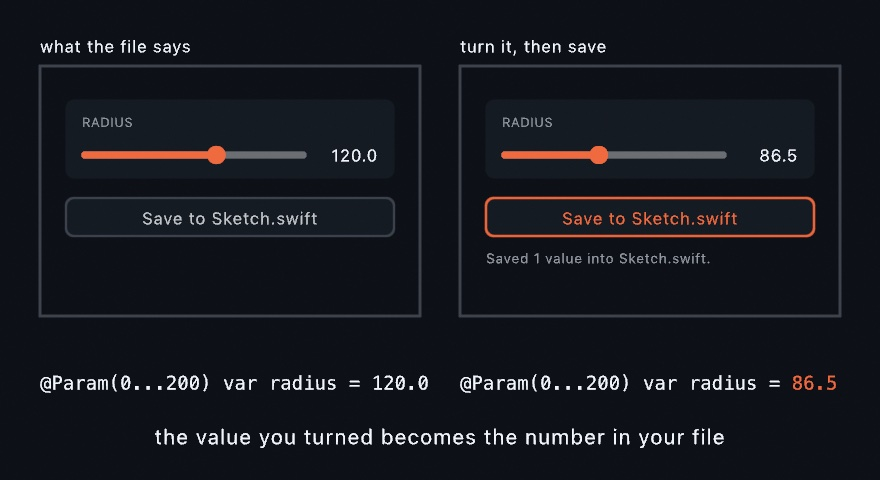
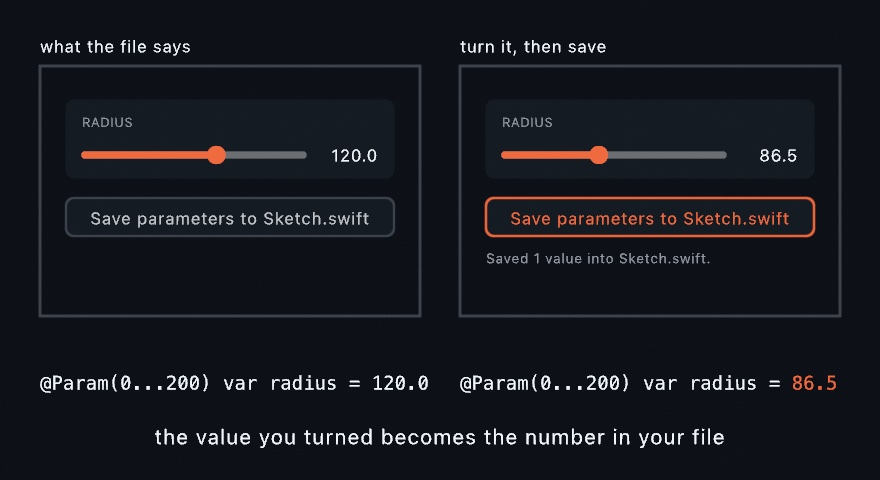
Fix what a desk session found in the live host and three examples
An evening of eyes-and-hands checks at the Mac, every example a release
build from a clean worktree at HEAD. Twenty-three items passed outright;
the rest are fixed here.

- The ramp strip: a stop dragged onto its neighbor vanished behind it and
  could not be grabbed back. It now stops one handle short.
- The save button: written values are rounded to four significant figures
  (2.403, never 2.4027931415929205), and the button is a footer at the end
  of the list, a rule at the list's inset and the system's push button
  centered under it, after a full-width accent box read too loud, plain
  text did not read as a button, and a tinted band read as one more card.
  It says "Save parameters to Sketch.swift".
- A menu row trimmed its label to "Spa…" because the popup sized itself to
  its widest option. The label lays out first and the menu shrinks between
  84 and 170 points; labels over 12 characters get a hover tooltip.
- Command-drag handles could not be reached at all: the outline was dropped
  the moment the pointer left the shape, and a corner stands outside it.
  The host keeps the outline while the pointer is within reach of the
  handles (SourcePick.keepsHover), so a corner resize works by hand.
- Haptics: the trackpad actuates only while the button is held, so every
  ridge knock asked for on a plain pointer move was planned and felt by
  nobody. The ridges example knocks under a held-button drag and hums under
[…]

Changed region(s): [[0.583, 0.4375, 0.9205, 0.4688], [0.092, 0.4375, 0.4295, 0.4688]]

diff --git a/Sources/Ollin/Live/Inspector.swift b/Sources/Ollin/Live/Inspector.swift
@@ -705,7 +705,7 @@ private struct MonitorCostRow: View {
 /// detached panel, the examples gallery) simply shows no button.
 public struct ParamSaveAction {
     /// What the button reads, naming where the values land
-    /// ("Save to Sketch.swift").
+    /// ("Save parameters to Sketch.swift").
     public let title: String
     /// Write them, and hand back the one line to show underneath (what landed,
     /// and the first knob that could not), or `nil` to say nothing. It runs on
@@ -943,38 +943,34 @@ public struct ParametersListView: View {
 
     /// The one action under the cards: put the values you turned into the
     /// sketch that declared them. What it says afterwards stays until the next
-    /// press, since a refusal names the knob it could not write.
+    /// press, since a refusal names the parameter it could not write. It is
+    /// a footer at the end of the list: a rule sets it apart from the
+    /// parameters above (it acts on all of them and is not one), the system's
+    /// own push button sits centered under it, and it scrolls with the list
+    /// rather than pinning, so a sketch with one parameter does not pay for
+    /// it. A full-width accent box read louder than the rows it serves, plain
+    /// text did not read as a button at all, and a tinted band behind the
+    /// button read as one more card.
     private func saveRow(_ save: ParamSaveAction) -> some View {
-        VStack(alignment: .leading, spacing: 6) {
-            Button {
+        VStack(spacing: 5) {
+            Button(save.title) {
                 saveMessage = save.perform()
-            } label: {
-                HStack(spacing: 6) {
-                    SwiftUI.Image(systemName: "square.and.arrow.down")
-                        .font(.system(size: 10.5, weight: .semibold))
-                    Text(save.title)
-                        .font(.system(size: 11.5, weight: .medium))
-                        .lineLimit(1)
-                        .minimumScaleFactor(0.85)
-                }
-                .foregroundStyle(OllinInspector.accent)
-                .frame(maxWidth: .infinity)
-                .padding(.vertical, 7)
-                .background(palette.fieldFill, in: RoundedRectangle(cornerRadius: 7, style: .continuous))
-                .overlay(RoundedRectangle(cornerRadius: 7, style: .continuous)
-                    .strokeBorder(palette.fieldStroke, lineWidth: 0.5))
             }
-            .buttonStyle(.plain)
-            .help("Write the knobs you turned into the @Param lines they were declared on.")
+            .buttonStyle(.bordered)
+            .help("Write the parameters you changed into the @Param lines they were declared on.")
 
             if let saveMessage {
                 Text(saveMessage)
                     .font(.system(size: 10.5))
                     .foregroundStyle(palette.textTertiary)
+                    .multilineTextAlignment(.center)
                     .fixedSize(horizontal: false, vertical: true)
-                    .padding(.horizontal, 2)
             }
         }
+        .frame(maxWidth: .infinity)
+        .padding(.top, 12)
+        .padding(.horizontal, 12)
+        .overlay(alignment: .top) { Hairline(palette: palette) }
     }
 
     private var emptyState: some View {
@@ -1118,6 +1114,9 @@ private struct ParamRowLabel: View {
             Text(handle.label)
                 .font(.system(size: 13, weight: .medium))
                 .lineLimit(1)
+                // A long label can still be trimmed beside a control that
+                // cannot give way; hovering it then shows the whole name.
+                .help(handle.label.count > 12 ? handle.label : "")
         }
     }
 }
@@ -1565,11 +1564,17 @@ private struct ControlRow<Control: View>: View {
     let handle: ParamHandle
     let palette: OllinInspector.Palette
     let iconGutter: Bool
+    /// Whether the label is laid out before the control, so a control that
+    /// can shrink (a menu) gives way rather than trimming the label to "Spa…".
+    /// Off for controls of a fixed width, which could not give way and would
+    /// be pushed out of the row instead.
+    var labelWins = false
     @ViewBuilder let control: () -> Control
 
     var body: some View {
         HStack {
             ParamRowLabel(handle: handle, palette: palette, iconGutter: iconGutter)
+                .layoutPriority(labelWins ? 1 : 0)
             // A floor on the gap so a wide control never crowds the label.
             Spacer(minLength: 16)
             KeyframeDiamond(handle: handle, palette: palette)
@@ -1784,8 +1789,14 @@ private struct MenuParamRow: View {
             .padding(.vertical, 8)
             .frame(minHeight: 38)
         } else {
-            ControlRow(handle: handle, palette: palette, iconGutter: iconGutter) {
-                basePicker.pickerStyle(.menu).fixedSize()
+            // The menu sizes itself to its widest option, which on a long
+            // list crowded the label out of its own row. It shrinks instead:
+            // the label lays out first, and the menu takes what is left
+            // between a floor and a cap, trimming its title if it must (the
+            // menu still opens to the full names).
+            ControlRow(handle: handle, palette: palette, iconGutter: iconGutter, labelWins: true) {
+                basePicker.pickerStyle(.menu)
+                    .frame(minWidth: 84, maxWidth: 170, alignment: .trailing)
             }
         }
     }
@@ -2536,7 +2547,9 @@ private struct SwatchesParamRow: View {
 
     /// A stop drags along the band but never past its neighbors, so the order
     /// the strip shows is the order the ramp holds and the dragged index stays
-    /// the dragged index.
+    /// the dragged index. It also stops a whole handle short of each neighbor:
+    /// two stops on the same spot draw as one, and the one underneath can
+    /// neither be seen nor grabbed back.
     private func dragGesture(index: Int, width: CGFloat) -> some Gesture {
         DragGesture(minimumDistance: 0, coordinateSpace: .named("swatchStrip"))
             .onChanged { drag in
@@ -2545,9 +2558,16 @@ private struct SwatchesParamRow: View {
                 guard stops.indices.contains(index) else { return }
                 let travel = Swift.max(width - Self.handleInset * 2, 1)
                 let raw = Double((drag.location.x - Self.handleInset) / travel)
-                let low = index > 0 ? stops[index - 1].position : 0
-                let high = index < stops.count - 1 ? stops[index + 1].position : 1
-                let moved = Swift.min(Swift.max(raw, low), high)
+                let previous = index > 0 ? stops[index - 1].position : 0
+                let next = index < stops.count - 1 ? stops[index + 1].position : 1
+                let gap = Double(Self.handleSize / travel)
+                let low = index > 0 ? previous + gap : 0
+                let high = index < stops.count - 1 ? next - gap : 1
+                // Stops already packed tighter than a handle (from a file, or a
+                // very narrow strip) keep the plain neighbor clamp.
+                let moved = low <= high
+                    ? Swift.min(Swift.max(raw, low), high)
+                    : Swift.min(Swift.max(raw, previous), next)
                 guard moved != stops[index].position else { return }
                 stops[index].position = moved
                 push()

diff --git a/Examples/Integration/HapticRidges/Sketch.swift b/Examples/Integration/HapticRidges/Sketch.swift
@@ -10,10 +10,14 @@ import OllinHaptics
 /// side by side and can be compared in one drag. How fast you drag decides how
 /// hard each knock lands.
 ///
-/// Press and hold anywhere for a hum instead of knocks. Move left and right
+/// Hold the space bar for a hum instead of knocks. Move left and right
 /// while you hold it: the hum gets stronger toward the right, and on a
 /// trackpad you feel that as a faster train of knocks rather than a harder
 /// one, because a trackpad has one strength and many rates.
+///
+/// Drag with the button held. A trackpad actuates only while a finger is
+/// pressing it, so a knock asked for during a plain pointer move is delivered
+/// to nobody; the plan along the bottom still shows it was asked for.
 ///
 /// The strip along the bottom draws what was last asked of the hardware, so
 /// the eye can check what the hand felt. On a machine that cannot be felt at
@@ -71,9 +75,9 @@ final class HapticRidgesExample: Sketch {
     // MARK: What the hand does
 
     private func respondToTheHand() {
-        // Holding the button runs one long hum instead of the ridges, so the
-        // two ways of asking for touch are next to each other.
-        if mouseIsPressed {
+        // Holding the space bar runs one long hum instead of the ridges, so
+        // the two ways of asking for touch are next to each other.
+        if isKeyDown(" ") {
             if !humming { startHum() }
             return
         }
@@ -202,7 +206,7 @@ final class HapticRidgesExample: Sketch {
         drawText(heading, 16, 44)
         fill(Color(white: 0.5))
         textSize(17)
-        drawText("Drag sideways through a strip. Hold the button for a hum.", 16, 72)
+        drawText("Drag sideways through a strip with the button held. Hold the space bar for a hum.", 16, 72)
     }
 
     /// The knocks the hardware was last asked for, laid out in time.

diff --git a/Sources/OllinRuntime/ParamWrite.swift b/Sources/OllinRuntime/ParamWrite.swift
@@ -117,7 +117,7 @@ package enum ParamWrite {
         case .notDeclared:
             return "\(file) does not declare \(refusal.name)."
         case .ambiguous:
-            return "Two knobs are named \(refusal.name) in \(file), so this cannot tell them apart."
+            return "Two parameters are named \(refusal.name) in \(file), so this cannot tell them apart."
         case .noDefault:
             return "\(refusal.name) has no value written after its ="
         case .computed(let text):
@@ -396,12 +396,15 @@ package enum ParamWrite {
     }
 
     /// A `Double` written so it stays a `Double`: always a decimal point, and
-    /// no more digits than the value needs.
+    /// no more digits than the value needs. A dragged slider lands on a value
+    /// like 2.4027931415929205, and written whole that reads as machine
+    /// output; four significant figures is closer than any display shows,
+    /// so the line reads as typed and the picture does not move.
     private static func number(_ value: Double) -> String {
         guard value.isFinite else { return "0.0" }
-        for digits in 1...6 {
+        for digits in 1...9 {
             let text = String(format: "%.\(digits)f", value)
-            if let read = Double(text), abs(read - value) <= max(1e-12, abs(value) * 1e-12) {
+            if let read = Double(text), abs(read - value) <= max(1e-9, abs(value) * 1e-4) {
                 return text
             }
         }

diff --git a/Tests/OllinRuntimeTests/ParamWriteTests.swift b/Tests/OllinRuntimeTests/ParamWriteTests.swift
@@ -25,6 +25,20 @@ struct ParamWriteTests {
         #expect(result.refused.isEmpty)
     }
 
+    /// A dragged slider lands on a value with sixteen digits, and the line
+    /// should still read as one a person typed: four significant figures,
+    /// which no display resolves past, and never fewer than the value needs.
+    @Test func aDraggedValueIsWrittenRounded() {
+        let result = written("@Param(0...4) var speed = 1.0", ("speed", .number(2.4027931415929205)))
+        #expect(result.text == "@Param(0...4) var speed = 2.403")
+        let stop = written("@Param(0...1) var at = 0.5", ("at", .number(0.1757983826754386)))
+        #expect(stop.text == "@Param(0...1) var at = 0.1758")
+        let small = written("@Param(0...0.01) var eps = 0.005", ("eps", .number(0.00034567891)))
+        #expect(small.text == "@Param(0...0.01) var eps = 0.0003457")
+        let exact = written("@Param(0...4) var speed = 1.0", ("speed", .number(0.25)))
+        #expect(exact.text == "@Param(0...4) var speed = 0.25")
+    }
+
     /// The declaration's own text is not the value's: the range, the label, the
     /// group, and anything after the value stay exactly as they were.
     @Test func everythingAroundTheValueSurvives() {

diff --git a/Sources/Ollin/Live/SourcePick.swift b/Sources/Ollin/Live/SourcePick.swift
@@ -385,6 +385,22 @@ package struct SourcePick: Sendable {
         return best?.handle
     }
 
+    /// Whether `canvasPoint` is still within reach of this pick's outline and
+    /// handles: the box around both, grown by `slack`. A handle stands outside
+    /// the shape it belongs to, so between the two the pointer is over nothing;
+    /// a host that dropped the outline there could never reach a handle.
+    package func keepsHover(at canvasPoint: Vector2, slack: Double) -> Bool {
+        let points = outline + handles.map(\.position)
+        guard let first = points.first else { return false }
+        var low = first, high = first
+        for point in points.dropFirst() {
+            low = Vector2(min(low.x, point.x), min(low.y, point.y))
+            high = Vector2(max(high.x, point.x), max(high.y, point.y))
+        }
+        return canvasPoint.x >= low.x - slack && canvasPoint.x <= high.x + slack
+            && canvasPoint.y >= low.y - slack && canvasPoint.y <= high.y + slack
+    }
+
     /// The outline as a resize by `factor` would leave it, in canvas points,
     /// for a host showing where a drag is going before it writes anything.
     package func resized(by factor: Vector2) -> [Vector2] {

diff --git a/Tests/OllinTests/SourcePickTests.swift b/Tests/OllinTests/SourcePickTests.swift
@@ -137,6 +137,22 @@ struct SourcePickTests {
 
     // MARK: What can be taken hold of
 
+    /// A corner handle stands outside the circle it belongs to, so on the way
+    /// from the edge to the corner the pointer is over nothing. The pick keeps
+    /// its hover across that gap, and drops it once the pointer is clear of
+    /// the handles.
+    @Test func theHoverSurvivesTheGapBetweenTheEdgeAndACorner() throws {
+        let sketch = run(TwoShapes())
+        let pick = try #require(sketch.sourcePick(at: Vector2(145, 200)))
+        // Outside the circle (73 from its center, radius 60), inside its box.
+        #expect(sketch.sourcePick(at: Vector2(148, 148)) == nil)
+        #expect(pick.keepsHover(at: Vector2(148, 148), slack: 11))
+        // Just past a corner, within the slack a handle is grabbed by.
+        #expect(pick.keepsHover(at: Vector2(268, 268), slack: 11))
+        // Clear of every handle.
+        #expect(pick.keepsHover(at: Vector2(300, 300), slack: 11) == false)
+    }
+
     /// A circle is placed by its middle and sized by one number, so every
     /// corner can scale it, and nothing on the line says which way it faces.
     @Test func aCircleOffersFourCornersAndNoTurnKnob() throws {

diff --git a/Examples/Recreations/ManuelFelguerez/MaquinaEstetica/Sketch.swift b/Examples/Recreations/ManuelFelguerez/MaquinaEstetica/Sketch.swift
@@ -32,8 +32,9 @@ import Ollin
 /// the ink of every element, and finds the center of that weight. If the center
 /// sits far from the middle of the field, the sheet goes in the bin and it
 /// rolls another one. What you watch is the survivor, and a new one arrives
-/// every `seconds`. The machine took eleven seconds per drawing, which is the
-/// default here.
+/// every `seconds`. The machine took eleven seconds per drawing; on a screen
+/// that wait reads as a slideshow, so the default runs at five, and `seconds`
+/// at 11 gives the machine's own pace.
 ///
 /// The plotter made drawings, not pictures. Felguerez then painted the ones he
 /// kept. `penOnly` shows the two ends of that process: on, you get the drawing
@@ -48,7 +49,7 @@ import Ollin
 final class MaquinaEstetica: Sketch {
     @Param(4 ... 12, icon: "square.on.circle") var elements = 7.0
     @Param(0.15 ... 1.5, icon: "scalemass") var tolerance = 0.5
-    @Param(2 ... 20, icon: "clock") var seconds = 11.0
+    @Param(2 ... 20, icon: "clock") var seconds = 5.0
     @Param(icon: "pencil") var penOnly = false
     @Param(icon: "ruler") var showRule = false
 

diff --git a/Sources/OllinLiveCoding/PerformanceSession.swift b/Sources/OllinLiveCoding/PerformanceSession.swift
@@ -218,7 +218,7 @@ final class PerformanceSession {
     /// the buffer is what the audience is reading and what ⌘↩ evaluates, and ⌘S
     /// stays the only thing that touches the disk.
     var saveAction: ParamSaveAction {
-        ParamSaveAction(title: "Save to the code") { [weak self] in
+        ParamSaveAction(title: "Save parameters to the code") { [weak self] in
             self?.saveParamsIntoBuffer()
         }
     }
@@ -230,7 +230,7 @@ final class PerformanceSession {
     private func saveParamsIntoBuffer() -> String {
         let values = core.tunedParams
         guard !values.isEmpty else {
-            return "No knob has moved yet, so the code already says what the sketch draws."
+            return "No parameter has changed yet, so the code already says what the sketch draws."
         }
         let text = editor.text()
         let result = ParamWrite.writing(text, values: values)

diff --git a/Sources/OllinLive/LiveSession.swift b/Sources/OllinLive/LiveSession.swift
@@ -224,7 +224,7 @@ final class LiveSession {
     /// watched file. Built fresh on each read so the button always names the
     /// file this session watches.
     var saveAction: ParamSaveAction {
-        ParamSaveAction(title: "Save to \(fileName)") { [weak self] in
+        ParamSaveAction(title: "Save parameters to \(fileName)") { [weak self] in
             self?.saveParams()
         }
     }
@@ -237,7 +237,7 @@ final class LiveSession {
     private func saveParams() -> String {
         let values = core.tunedParams
         guard !values.isEmpty else {
-            return "No knob has moved yet, so \(fileName) already says what the sketch draws."
+            return "No parameter has changed yet, so \(fileName) already says what the sketch draws."
         }
         guard let text = try? String(contentsOfFile: sketchPath, encoding: .utf8) else {
             return "Could not read \(fileName)."

diff --git a/Sources/OllinLive/ShapeDrag.swift b/Sources/OllinLive/ShapeDrag.swift
@@ -103,7 +103,14 @@ final class ShapeDragController: ShapeDragging {
             return
         }
         handleUnderPointer = nil
-        show(sketch.sourcePick(at: canvasPoint))
+        let found = sketch.sourcePick(at: canvasPoint)
+        // Between the shape and its handles the pointer is over nothing at
+        // all. Keep the outline there, or a corner could never be reached;
+        // another shape under the pointer still takes over.
+        if found == nil, let hovered, hovered.keepsHover(at: canvasPoint, slack: Self.grabRadius) {
+            return
+        }
+        show(found)
     }
 
     func dragBegan(at canvasPoint: Vector2) -> Bool {

diff --git a/Guide/Figures/01-HelloOllin/KnobsToSource.swift b/Guide/Figures/01-HelloOllin/KnobsToSource.swift
@@ -71,7 +71,7 @@ final class KnobsToSource: Sketch {
             strokeWeight(1.5)
             drawRect(button, cornerRadius: 8)
         }
-        drawText("Save to Sketch.swift", button.x + button.width / 2, button.y + 20,
+        drawText("Save parameters to Sketch.swift", button.x + button.width / 2, button.y + 20,
                  size: 17, color: pressed ? theme.accent : theme.ink(0.6),
                  align: .center, .middle)
         if pressed {

diff --git a/CAPABILITIES.md b/CAPABILITIES.md
@@ -154,7 +154,7 @@ GPU texture in place, satellites not depending on each other, and the
 
 - **Syphon** (`OllinSyphon` satellite). Live GPU frame-sharing with other Mac apps over the **vendored** Syphon Framework (BSD-2, `External/CSyphon`, Metal portion only — wrapped, off the public surface). `SyphonServer` / `publishSyphon(name:)` publishes the rendered texture; `SyphonClient.newFrame()` draws an incoming feed as `Image(texture:)`. Brought two core seams (shared with future layered effects): the GPU-texture frame hook (`wantsRenderedTexture` + `frameRendered(_:texture:)` → `MetalRenderer.texture(of:)`, no CPU readback) and texture-backed `Image(texture:)`. **Gotchas:** publish `flipped: true` + client flips back (orientation); hand the server a non-sRGB `.bgra8Unorm` view and read back through a `.bgra8Unorm_srgb` view (color — both need `.pixelFormatView` usage); single-GPU Macs only. Examples `Integration/SyphonLoopback`, `SyphonViewer`; `Docs/Integration/Syphon.md`.
 
-- **Haptics** (`OllinHaptics` satellite; `HapticEvent.swift` + `HapticPattern.swift` + `TrackpadPlan.swift` + `HapticHub.swift` + `DeviceHaptics.swift` + `Sketch+Haptics.swift`). Touch as an output beside the pixels and the sound: **`HapticPattern`** (a value holding `.tap`/`.hum` **`HapticEvent`**s on its own timeline, built by `.tap`/`.hum`/`.pulses`/`.silence` and composed by `then`/`over`/`delayed`/`repeated`/`scaled`/`speed`/`reversed`), played through **`playHaptic(_:)`** / `stopHaptics()` / `hapticStrength(_:)` with `hapticsAreAvailable` / `hapticHardware` / `hapticsUnavailableReason` reporting what is on the other end. **The platform fact that shapes the whole design, and it runs the other way from the design note: Core Haptics does not drive a Mac.** `CHHapticEngine.capabilitiesForHardware().supportsHaptics` is **false** on a MacBook Pro with an actuating trackpad, and `CHHapticEngine()` init fails `-4809` (`notSupported`) — probed on this machine; the Force Touch trackpad is reached through AppKit's `NSHapticFeedbackManager` instead, which offers **three fixed feelings and one strength**. So the tier is two back ends behind one seam, and the trackpad one **plans before it plays** (`TrackpadPlan.knocks(for:strength:)`, a *pure function*, which is what makes the whole translation testable with no hardware): sharpness picks the feeling (thirds), **strength becomes density** (rate coding, 6…30 knocks a second, and a fade *thins the run* rather than lowering it, since the hardware has one strength), anything under the 0.05 floor is dropped (so a pattern that fades to nothing ends in silence, not one stray knock), and knocks closer than 20 ms are dropped **twice over** — inside a pattern by the plan, and *across* patterns by the hub against the clock, since the plan only ever sees one pattern and a sketch calling every frame is the case it cannot see. **Load-bearing details:** availability is read from the **IOKit registry** (`AppleMultitouchDevice` / `ActuationSupported`), never from the performer, which is handed back on every Mac and silently does nothing where there is no actuator; `stop()` resets the spacing clock (nothing is playing, so the next knock waits for nothing) and bumps a generation so scheduled knocks that have not landed are cancelled; `DeviceHaptics` is **not `@MainActor`** (the engine's stopped/reset handlers arrive off-thread, the render-thread-closure rule); a `HapticEvent` clamps every number at init and turns a NaN or an infinity into 0 (one infinity in a time is a knock that never arrives, one NaN makes every comparison in the plan false); `HapticEvent.strength(at:)` is public so a sketch can draw the envelope the hand is being given, and both the example and the Guide figure do. The `.engine` path (`CHHapticEvent` transient/continuous, fades riding the system's **normalized** attack/release adjusters rather than seconds, `sustained` 1) is written and **checked as far as it can be without hardware** — the system builds a pattern out of events with no device involved, so the tests read the translation straight back off it — and it waits on the phone and pad rather than on this library; `makePattern` throws `nothingToPlay` on an all-silence pattern (the system itself would accept an empty one and start an engine for it). **Envelope, stated rather than faked: no hand has felt this yet.** Rumble on a game controller is the named next leg (the `Controller` docs already point here for it). Example `Integration/HapticRidges` (three strips of ridges, a hum under a held button, and the plan drawn along the bottom edge); `HapticPatternTests` / `TrackpadPlanTests` / `HapticOutputTests` (51, the rate coding, the spacing rule, the cross-play guard, and the fade each verified red by sabotage; the hub suite `.serialized` on the one process-wide hub, with a stand-in performer and a hand-wound clock the stand-in scheduler advances, since firing a whole timeline at one instant would let the spacing rule eat everything after the first knock); no pixel snapshot (the output is touch). `Docs/Integration/Haptics.md`; Guide Ch 31 § *Touch as an output: haptics* + the FeltPattern figure.
+- **Haptics** (`OllinHaptics` satellite; `HapticEvent.swift` + `HapticPattern.swift` + `TrackpadPlan.swift` + `HapticHub.swift` + `DeviceHaptics.swift` + `Sketch+Haptics.swift`). Touch as an output beside the pixels and the sound: **`HapticPattern`** (a value holding `.tap`/`.hum` **`HapticEvent`**s on its own timeline, built by `.tap`/`.hum`/`.pulses`/`.silence` and composed by `then`/`over`/`delayed`/`repeated`/`scaled`/`speed`/`reversed`), played through **`playHaptic(_:)`** / `stopHaptics()` / `hapticStrength(_:)` with `hapticsAreAvailable` / `hapticHardware` / `hapticsUnavailableReason` reporting what is on the other end. **The platform fact that shapes the whole design, and it runs the other way from the design note: Core Haptics does not drive a Mac.** `CHHapticEngine.capabilitiesForHardware().supportsHaptics` is **false** on a MacBook Pro with an actuating trackpad, and `CHHapticEngine()` init fails `-4809` (`notSupported`) — probed on this machine; the Force Touch trackpad is reached through AppKit's `NSHapticFeedbackManager` instead, which offers **three fixed feelings and one strength**, and **it actuates only while the button is held** (felt at the desk 2026-09-01: every knock asked for during a plain pointer move was planned and delivered to nobody, while the same knocks under a held button landed), so a sketch asks for touch inside a drag, never on a hover. So the tier is two back ends behind one seam, and the trackpad one **plans before it plays** (`TrackpadPlan.knocks(for:strength:)`, a *pure function*, which is what makes the whole translation testable with no hardware): sharpness picks the feeling (thirds), **strength becomes density** (rate coding, 6…30 knocks a second, and a fade *thins the run* rather than lowering it, since the hardware has one strength), anything under the 0.05 floor is dropped (so a pattern that fades to nothing ends in silence, not one stray knock), and knocks closer than 20 ms are dropped **twice over** — inside a pattern by the plan, and *across* patterns by the hub against the clock, since the plan only ever sees one pattern and a sketch calling every frame is the case it cannot see. **Load-bearing details:** availability is read from the **IOKit registry** (`AppleMultitouchDevice` / `ActuationSupported`), never from the performer, which is handed back on every Mac and silently does nothing where there is no actuator; `stop()` resets the spacing clock (nothing is playing, so the next knock waits for nothing) and bumps a generation so scheduled knocks that have not landed are cancelled; `DeviceHaptics` is **not `@MainActor`** (the engine's stopped/reset handlers arrive off-thread, the render-thread-closure rule); a `HapticEvent` clamps every number at init and turns a NaN or an infinity into 0 (one infinity in a time is a knock that never arrives, one NaN makes every comparison in the plan false); `HapticEvent.strength(at:)` is public so a sketch can draw the envelope the hand is being given, and both the example and the Guide figure do. The `.engine` path (`CHHapticEvent` transient/continuous, fades riding the system's **normalized** attack/release adjusters rather than seconds, `sustained` 1) is written and **checked as far as it can be without hardware** — the system builds a pattern out of events with no device involved, so the tests read the translation straight back off it — and it waits on the phone and pad rather than on this library; `makePattern` throws `nothingToPlay` on an all-silence pattern (the system itself would accept an empty one and start an engine for it). **Felt at the desk 2026-09-01: the three feelings tell apart, and the hum's rate coding reads as a stronger hum toward the right.** Rumble on a game controller is the named next leg (the `Controller` docs already point here for it). Example `Integration/HapticRidges` (three strips of ridges knocked under a held-button drag, a hum under the space bar, and the plan drawn along the bottom edge); `HapticPatternTests` / `TrackpadPlanTests` / `HapticOutputTests` (51, the rate coding, the spacing rule, the cross-play guard, and the fade each verified red by sabotage; the hub suite `.serialized` on the one process-wide hub, with a stand-in performer and a hand-wound clock the stand-in scheduler advances, since firing a whole timeline at one instant would let the spacing rule eat everything after the first knock); no pixel snapshot (the output is touch). `Docs/Integration/Haptics.md`; Guide Ch 31 § *Touch as an output: haptics* + the FeltPattern figure.
 - **Game controllers** (`OllinController` satellite; `Controller.swift` + `ControllerButton.swift` + `ControllerHub.swift` + `Sketch+Controller.swift`). A modern controller read in `draw()` over GameController: **`controller`** (player one) / **`controller(_ player:)`** / `connectedControllers` / `controllerCount` hand back a **`Controller`** value snapshot (sticks / dpad / triggers / `isDown`/`wasPressed`/`wasReleased` over the `ControllerButton` enum / `isConnected`+`didConnect`+`didDisconnect` / motion / touchpad / battery / `unavailableReason`), with the bare settings `controllerMotion(_:)` / `controllerDeadzone(_:)` / `controllersRunInBackground(_:)` / `discoverControllers()`. **A satellite, not core input, and the reason is the seam, not convenience:** mouse / keyboard / pressure are core *because* they arrive as `NSEvent`s through `OllinMTKView` and need the AppKit/UIKit seam, where a controller is handed to the *process* by a system service, touches no view, and is character-identical on macOS and iOS, so core membership would buy the iOS leg nothing and cost every 2D sketch a framework link. **Load-bearing:** the tier is **polled once per frame** (`sampleIfNeeded(frame:)` keyed on `frameCount`, so every read within a frame agrees and the hardware is hit once), and that is *why* it is testable at all — a **synthetic `GCController`** (`GCController.withExtendedGamepad()`) accepts written values and reads back through the shipped path, but does **not** fire the system's change handlers and never joins `GCController.controllers()`, so a handler-driven design would be unverifiable with nothing plugged in and the hub takes its list through an injectable `source` seam; the **classic `extendedGamepad` profile is the one to build on, not `GCControllerLiveInput`**, whose `buttons`/`axes`/`dpads` come back *empty* on a synthetic controller (probed). **Nothing arrives off-thread**, so there is no lock and no `@unchecked Sendable` producer here, unlike every other satellite. Presses/releases are **edges differenced between two samples** (`ControllerButtonMask`, one bit per button, `wasDown`/`down` on the slot) with **no event drain by design** — a press lasts several frames, so unlike MIDI a hand cannot press and release between two of them. Sticks/dpad/touch are **y-flipped once into canvas terms** (up reads negative, so `p += stick * speed` moves up the screen); the deadzone (default 0.1) is **radial and rescaled**, never a per-axis cut (which jumps at the edge and bends a diagonal hold). **Player slots are held, not recomputed** (a controller keeps its number while connected, a newcomer takes the lowest free one, so unplugging player 2 cannot renumber player 3), assigned by walking the slot array in order rather than a dictionary (the determinism rule). Motion is **opt-in** (`sensorsActive` costs battery; `hasMotion` is false both with no sensors and with none asked for) and **Xbox hardware has none at all**; the touchpad comes from **`physicalInputProfile.touchpads[GCInputDualShockTouchpadOne]`**, never `GCDualShockGamepad.touchpadPrimary`, which is typed as a plain direction pad and so cannot tell a finger resting dead center from an untouched surface (only the named element carries `touchState`). **Permission: none** — probed, a bare `swift run` binary reads a controller with no TCC prompt and no entitlement (unlike the screen); what *is* real is `shouldMonitorBackgroundEvents`, NO by default since macOS 11.3, so a sketch behind another window reads centered until `controllersRunInBackground(true)`. Headless reads neutral with `unavailableReason` set and a one-time stderr note. Deliberate cuts, each named in the docs rather than dropped: rumble / adaptive triggers / the light bar (outputs, so they belong to the haptics work), **Apple Pencil** (waits on the iOS leg; its force joins the shipped `pressure` rather than becoming a second thing), attitude (no public quaternion type yet), racing wheels and spatial accessories. Example `Integration/ControllerInput` (a pad as a drawing instrument, `map` drawing every input as it is read); `ControllerTests` (29, `.serialized` on the one process-wide hub, each invariant verified red by sabotage; the single hardware test is `.enabled(if:)` so a machine with no pad reports it **skipped and says so** rather than passing vacuously); no pixel snapshot (live input). `Docs/Integration/Controller.md`; Guide Ch 28 § *Something to hold: game controllers* + ReadingAPad figure.
 - **Screen and window capture** (`OllinScreen` satellite; `ScreenCapture.swift` + `ScreenSource.swift`). Any display / app / window as a live `FrameSource` + `VideoFeed` over ScreenCaptureKit: the *non-cooperative* counterpart to Syphon (which needs the other app to publish). **`ScreenCapture(_ source:)`** + `start()`/`stop()`, drawn with `drawFrame`/`frame`, GPU-resident (IOSurface → `CVMetalTextureCache` → `Image(texture:)`, the `VideoPlayer` path, `.bgra8Unorm_srgb` against `config.colorSpaceName = .sRGB`); knobs `source` / `excludesOwnWindows` / `showsCursor` / `frameRate` / `scale` are all live (a filter-only change pushes through `updateConfiguration`, a filter-changing one rebinds). **`ScreenSource`** is the nameable value (`.mainDisplay` / `.display(id)` / `.app(name-or-bundleID)` / `.window(title:app:)` / `.windowID`), with `availableDisplays()`/`availableWindows()`/`apps()` for discovery — **named-in-code is primary and the system picker is a deliberate cut** (`SCContentSharingPicker` is a Control-Center *application* singleton with an observer protocol, host-app shaped, and a picked filter is a click nobody recorded; enumeration gives the same discovery). **Load-bearing:** the **stream must be retained** or it is deallocated and silently stops delivering with no error and no callback (cost a probe to find), and it lives in a `StreamHolder` so the nonisolated `deinit` can end it; self-exclusion keys on **pid, never bundle identifier** (a `swift run` sketch is listed in `SCShareableContent` with an *empty* bundle id, so `ScreenMatch.app` must reject an empty needle or every such process matches ""); frames arrive on a background queue so the `SCStreamOutput` is a file-scope non-`@MainActor` class (the render-thread rule) handing the buffer over an `NSLock` box (a `CVPixelBuffer` is explicitly **not** `Sendable`, so `OSAllocatedUnfairLock`'s generic form can't hold one); only `SCFrameStatus.complete` samples carry pixels (idle/blank ones are also delivered); the captured size is `filter.contentRect * filter.pointPixelScale` (points → backing pixels) times `scale`; the CPU `CGImage` conversion for the tap runs **only while a tap is installed**; a source naming something absent is a **wait, not an error** (a 1 s retry loop, `isRunning` = wanted vs `isReceiving` = arriving), and a stream the system ends re-binds. The **matching rules are extracted as pure functions** (`ScreenMatch`) because `SCShareableContent` has no public init, so a fake screen cannot be staged; app names match **in full** (else `"Mail"` takes MailMate) while window titles match **as a substring**, ties broken by lowest window id so a run repeats. **Permission is the design problem and it is a terminal's, not the sketch's:** a `swift run` / `ollin` / OllinLive / gallery binary has no bundle identity, so TCC attributes screen recording to the **launching terminal** (verified: `CGPreflightScreenCaptureAccess` true and a full stream from a bare binary, with no entry of its own in System Settings), one approval covering every sketch from that terminal; surfaced as `isAvailable` / `unavailableReason` / `requestAccess()` (all `nonisolated`), a missing permission drawing its reason rather than throwing, and granting it never reaching a running process. Deliberate v1 cuts: **system audio** (belongs with the audio analyzer surface, not bolted to a video frame source) and the picker. Example `Integration/ScreenCapture` (the display filtered, `L` listing what is capturable as the code line naming it, and the feedback tunnel on a knob); `OllinScreenTests` (26; the rules always-on, the end-to-end capture soft-gated on the permission — a consent a machine cannot grant itself); no pixel snapshot (a capture is whatever is on screen). `Docs/Integration/ScreenCapture.md`; Guide Ch 30 § *Drawing with the screen: ScreenCapture* + ScreenAsMaterial figure.
 
